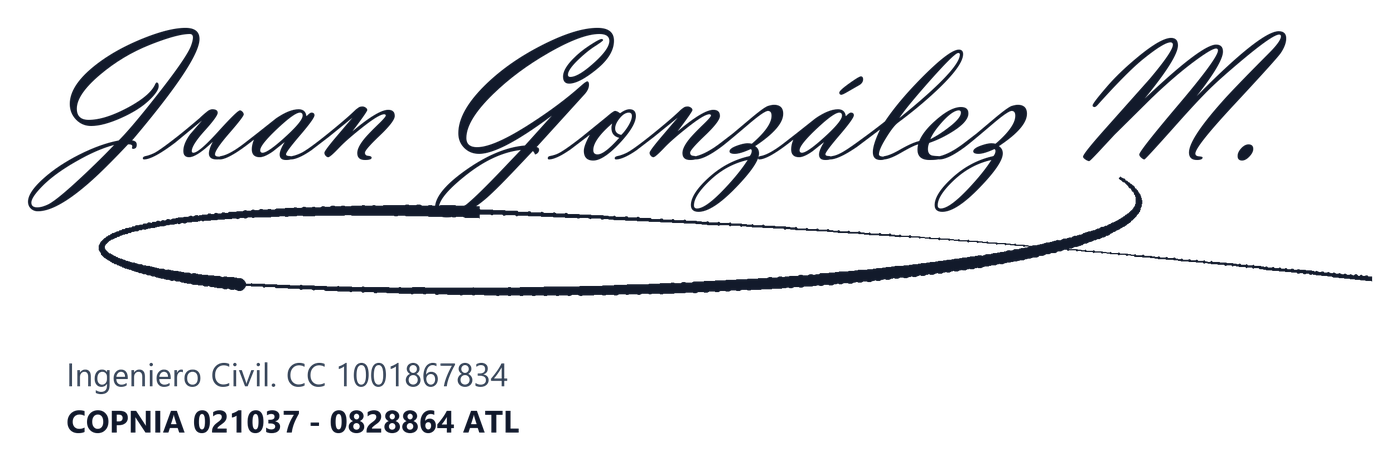
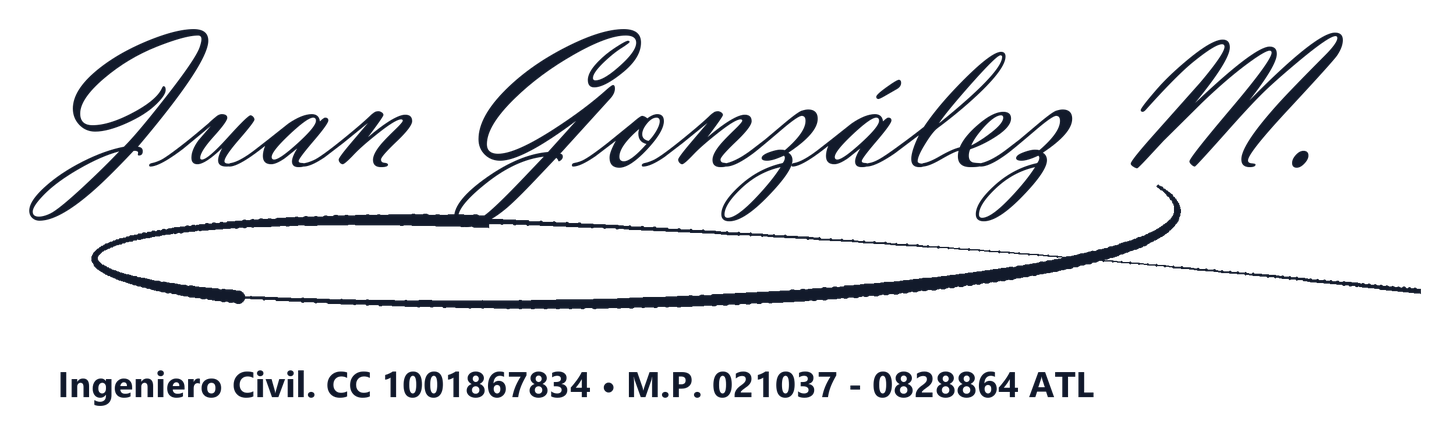
fix: membrete JGM ConTech mixto, eliminacion de tabla duplicada, direccion especifica y firma con M.P al lado de CC

diff --git a/dashboard.py b/dashboard.py
@@ -687,13 +687,13 @@ PROYECTOS_DISPONIBLES = {
     "🏡 Remodelación Casa Mendoza (Sabanalarga, Atlántico • Revit 1.1)": {
         "id": "casa_mendoza",
         "nombre": "Remodelación Casa Mendoza",
-        "subtitulo": "Familia Mendoza • Sabanalarga, Atlántico • Modelo: Casa Mendoza 1.1.rvt",
+        "subtitulo": "Familia Mendoza • Calle 20D # 1 - 19. Sabanalarga, Atlántico • Modelo: Casa Mendoza 1.1.rvt",
         "contratante": "Familia Mendoza",
         "cedula_cliente": "",
         "contratista": "Ing. Juan González Mendoza",
         "cedula_contratista": "C.C. 1001867834 • M.P. 021037-0828864 ATL",
         "cargo_contratista": "Ingeniero Residente de Obra",
-        "ubicacion": "Sabanalarga, Atlántico",
+        "ubicacion": "Calle 20D # 1 - 19. Sabanalarga, Atlántico",
         "badge": "REVIT 2027 BIM 5D",
         "ppto_base": PRESUPUESTO_CASA_MENDOZA,
         "a_def": 8.0, "i_def": 2.0, "u_def": 5.0, "ant_def": 15.0, "gar_def": 5.0,
@@ -1122,10 +1122,9 @@ def generar_presupuesto_pdf(df_5d, params_liquidacion, proyecto_actual):
         'DocSub',
         parent=styles['Normal'],
         fontName='Helvetica-Bold',
-        fontSize=8.5,
-        leading=11,
-        textColor=colors.HexColor('#2563eb'),
-        textTransform='uppercase'
+        fontSize=9,
+        leading=12,
+        textColor=colors.HexColor('#2563eb')
     )
     sec_heading = ParagraphStyle(
         'SecHead',
@@ -1218,6 +1217,10 @@ def generar_presupuesto_pdf(df_5d, params_liquidacion, proyecto_actual):
     contratista_nom = proyecto_actual.get('contratista', 'Ing. Juan González Mendoza')
     cedula_contratista = proyecto_actual.get('cedula_contratista', 'C.C. 1001867834 • M.P. 021037-0828864 ATL').strip()
     cargo_contratista = proyecto_actual.get('cargo_contratista', 'Ingeniero Residente de Obra')
+    
+    ubicacion_actual = proyecto_actual.get('ubicacion', '').strip()
+    if not ubicacion_actual or ubicacion_actual in ['Sabanalarga, Atlántico', 'Colombia']:
+        ubicacion_actual = 'Calle 20D # 1 - 19. Sabanalarga, Atlántico'
 
     txt_cliente = f"<b>{contratante_nom}</b>"
     if cedula_cliente:
@@ -1238,24 +1241,11 @@ def generar_presupuesto_pdf(df_5d, params_liquidacion, proyecto_actual):
         ],
         [
             Paragraph("<b>UBICACIÓN DE LA OBRA:</b>", cell_text_bold),
-            Paragraph(f"{proyecto_actual.get('ubicacion', 'Colombia')}", cell_text),
+            Paragraph(f"{ubicacion_actual}", cell_text),
             Paragraph("<b>MODELO / ESPECIFICACIÓN:</b>", cell_text_bold),
             Paragraph(f"{proyecto_actual.get('modelo_bim', 'Presupuesto Base APU')}", cell_text)
         ]
     ]
-    meta_table = Table(meta_data, colWidths=[120, 150, 130, 140])
-    meta_table.setStyle(TableStyle([
-        ('BACKGROUND', (0,0), (-1,-1), colors.HexColor('#f8fafc')),
-        ('BOX', (0,0), (-1,-1), 0.75, colors.HexColor('#cbd5e1')),
-        ('INNERGRID', (0,0), (-1,-1), 0.5, colors.HexColor('#e2e8f0')),
-        ('TOPPADDING', (0,0), (-1,-1), 4),
-        ('BOTTOMPADDING', (0,0), (-1,-1), 4),
-        ('LEFTPADDING', (0,0), (-1,-1), 6),
-        ('RIGHTPADDING', (0,0), (-1,-1), 6),
-        ('VALIGN', (0,0), (-1,-1), 'MIDDLE'),
-    ]))
-    story.append(meta_table)
-    story.append(Spacer(1, 8))
     meta_table = Table(meta_data, colWidths=[120, 150, 130, 140])
     meta_table.setStyle(TableStyle([
         ('BACKGROUND', (0,0), (-1,-1), colors.HexColor('#f8fafc')),
@@ -1410,13 +1400,12 @@ def generar_presupuesto_pdf(df_5d, params_liquidacion, proyecto_actual):
     
     firma_img_path = os.path.join(os.path.dirname(os.path.abspath(__file__)), "assets", "firma_juan_gonzalez.png")
     if os.path.exists(firma_img_path):
-        firma_flowable = RLImage(firma_img_path, width=150, height=49.4)
+        firma_flowable = RLImage(firma_img_path, width=160, height=48)
     else:
-        firma_flowable = Spacer(1, 49.4)
+        firma_flowable = Spacer(1, 48)
         
     sig_contratista_html = (
         f"<b>{contratista_nom.upper()}</b><br/>"
-        f"{cedula_contratista}<br/>"
         f"<b>{cargo_contratista}</b>"
     )
     
@@ -1427,7 +1416,7 @@ def generar_presupuesto_pdf(df_5d, params_liquidacion, proyecto_actual):
     )
     
     tabla_firmas = Table([
-        [firma_flowable, Spacer(1, 52.5)],
+        [firma_flowable, Spacer(1, 48)],
         [
             Paragraph("____________________________________________<br/><b>DIRECCIÓN TÉCNICA / CONTRATISTA</b><br/>" + sig_contratista_html, ParagraphStyle('SigL', parent=cell_text, alignment=1, leading=10)),
             Paragraph("____________________________________________<br/><b>SUPERVISIÓN / CLIENTE CONTRATANTE</b><br/>" + sig_cliente_html, ParagraphStyle('SigR', parent=cell_text, alignment=1, leading=10))
@@ -2043,6 +2032,7 @@ elif menu_seleccionado == "💰 Presupuesto 5D (APU)":
                 st.markdown("**👤 Entidad Contratante / Cliente:**")
                 edit_cli_nom = st.text_input("Nombre del Cliente / Entidad:", value=proyecto_actual.get("contratante", "Cliente Privado"), key="edit_meta_cli_nom")
                 edit_cli_ced = st.text_input("Cédula / NIT del Cliente:", value=proyecto_actual.get("cedula_cliente", ""), placeholder="Ej: C.C. 1045678901 ó NIT 900...", key="edit_meta_cli_ced")
+                edit_ubi = st.text_input("📍 Ubicación / Dirección de la Obra:", value=proyecto_actual.get("ubicacion", "Calle 20D # 1 - 19. Sabanalarga, Atlántico"), key="edit_meta_ubi")
             with col_meta_con:
                 st.markdown("**👷 Dirección Técnica / Contratista:**")
                 edit_con_nom = st.text_input("Nombre del Contratista:", value=proyecto_actual.get("contratista", "Ing. Juan González Mendoza"), key="edit_meta_con_nom")
@@ -2054,6 +2044,7 @@ elif menu_seleccionado == "💰 Presupuesto 5D (APU)":
                 if st.button("💾 Guardar Datos y Cédulas", type="primary", use_container_width=True, key="btn_save_meta_contrato"):
                     proyecto_actual["contratante"] = edit_cli_nom.strip()
                     proyecto_actual["cedula_cliente"] = edit_cli_ced.strip()
+                    proyecto_actual["ubicacion"] = edit_ubi.strip()
                     proyecto_actual["contratista"] = edit_con_nom.strip()
                     proyecto_actual["cedula_contratista"] = edit_con_ced.strip()
                     proyecto_actual["cargo_contratista"] = edit_con_car.strip()
